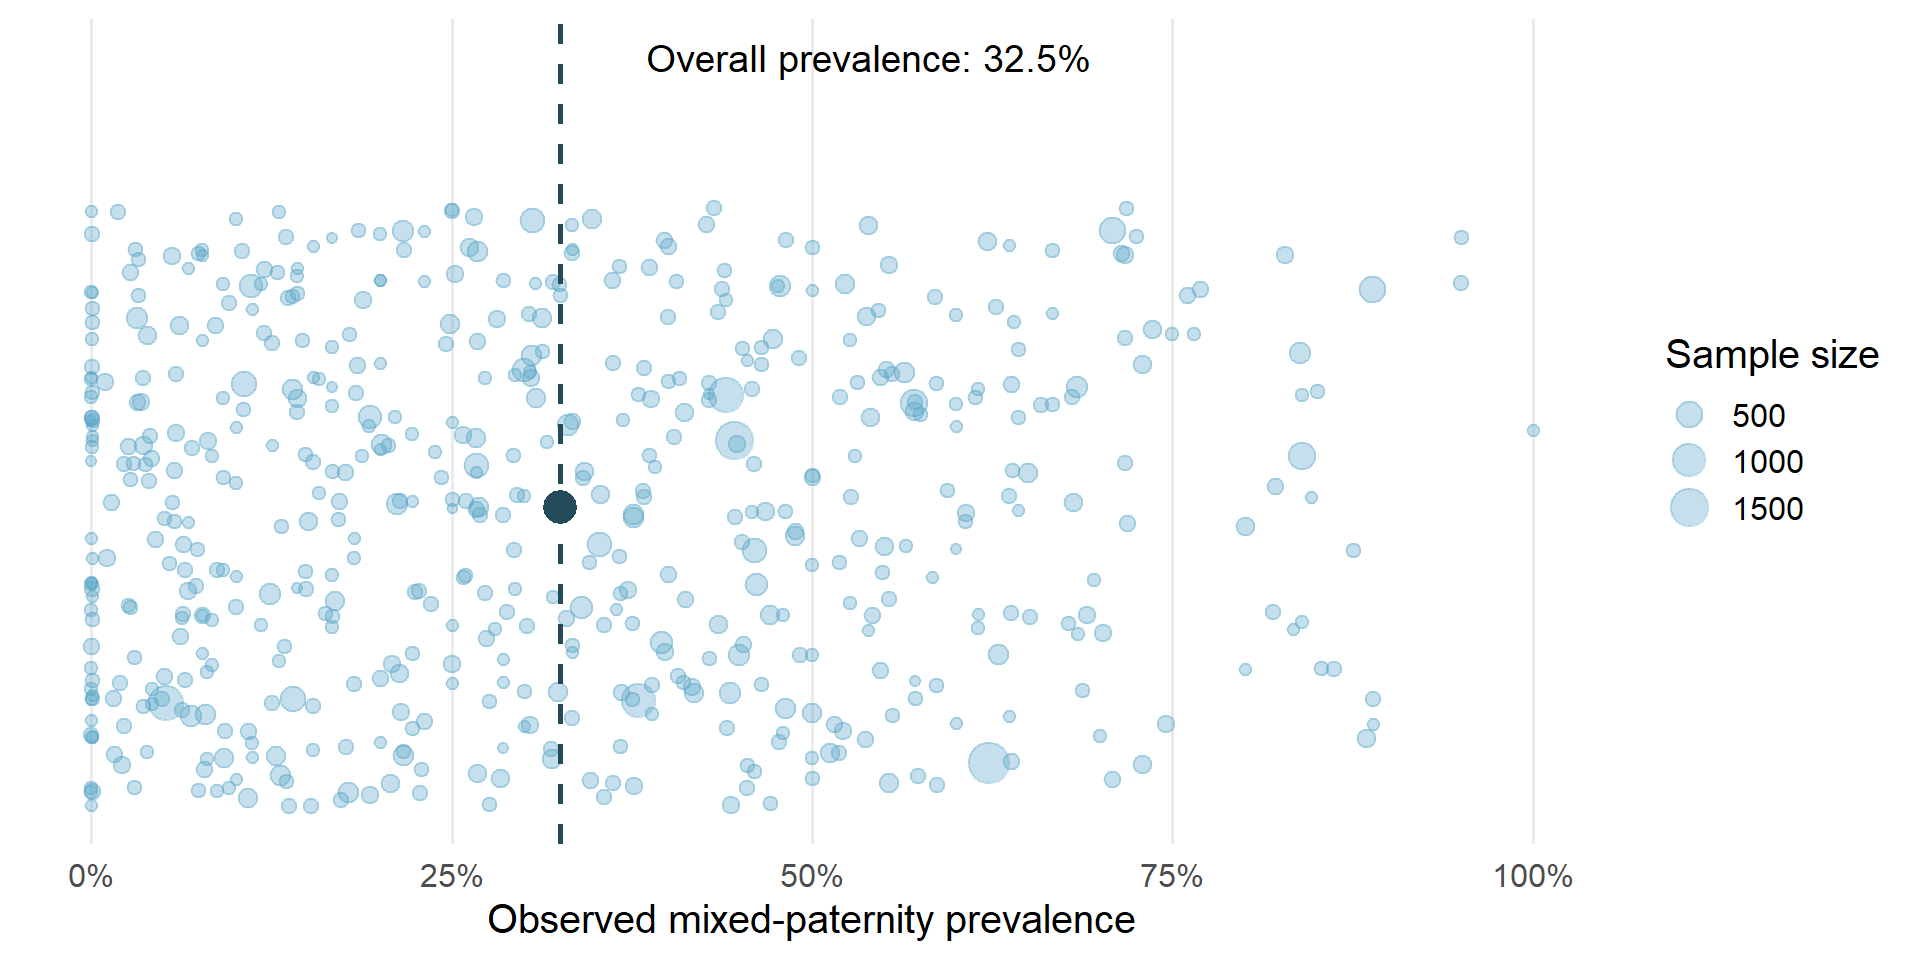
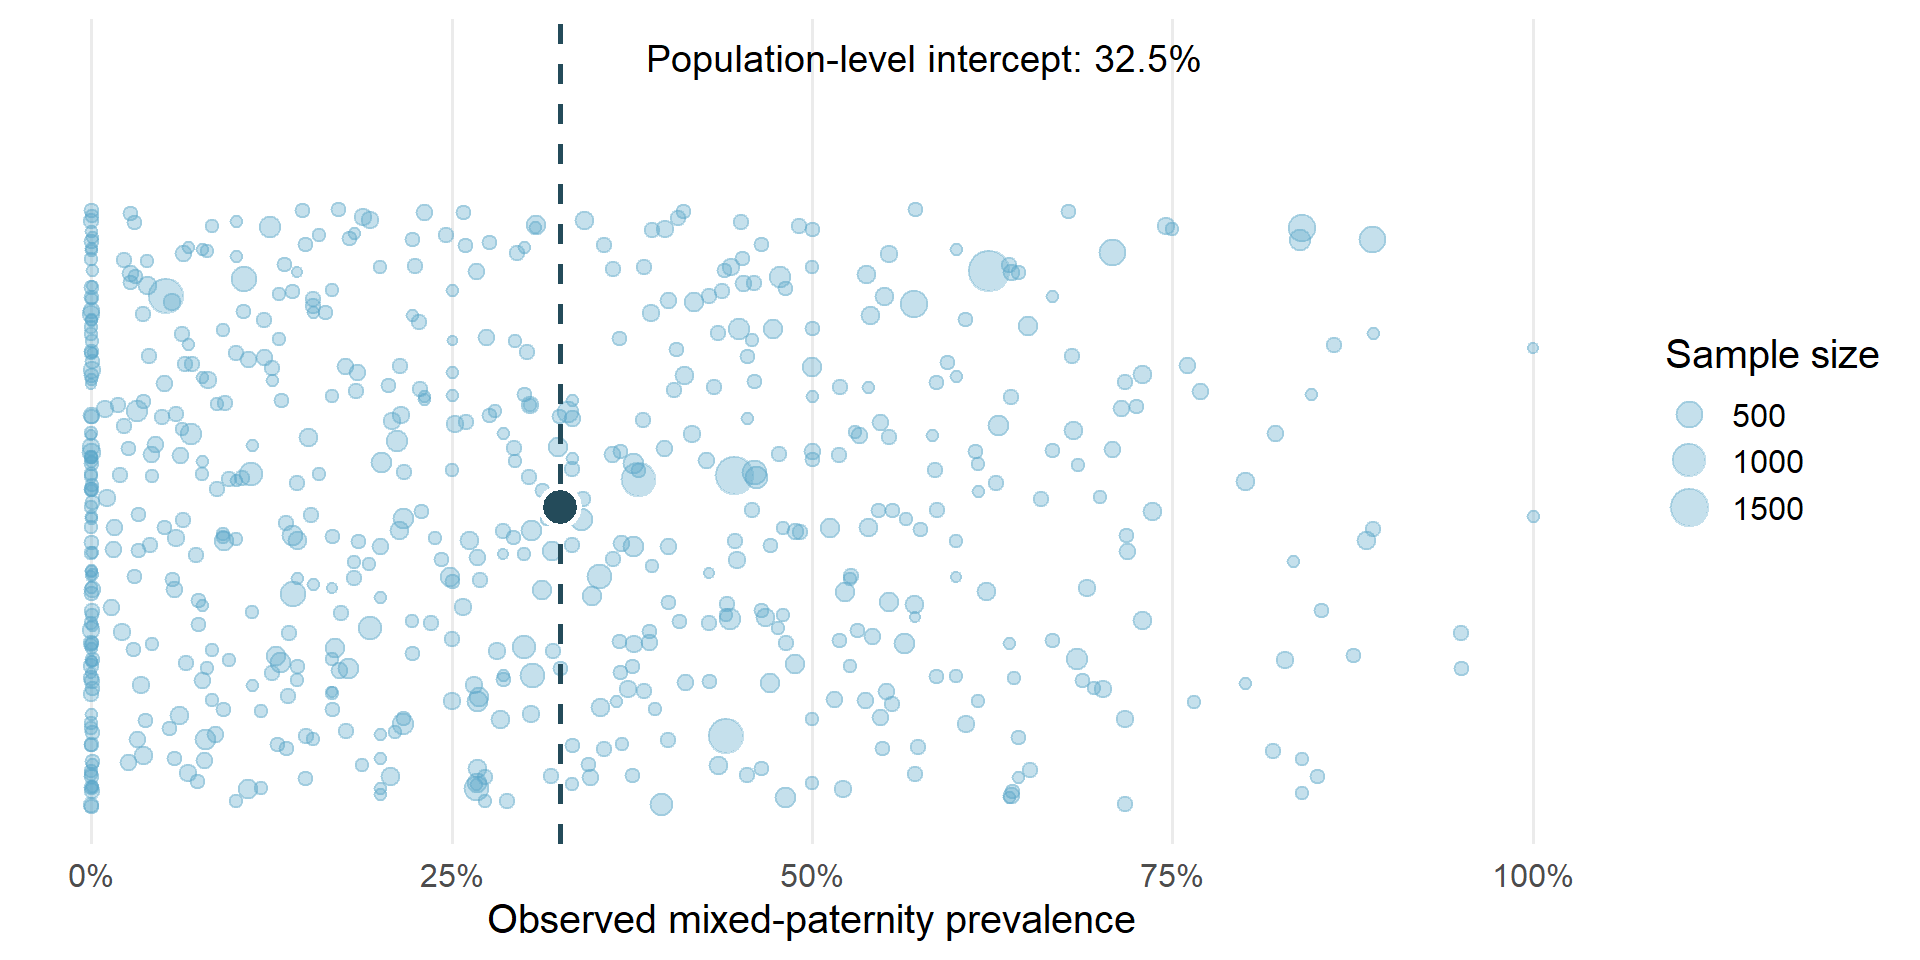
Clarify overall prevalence estimand

diff --git a/docs/03_overall_model.html b/docs/03_overall_model.html
@@ -350,7 +350,7 @@ window.Quarto = {
 <h2 data-number="4.5" class="anchored" data-anchor-id="overall-mixed-paternity-prevalence"><span class="header-section-number">4.5</span> Overall mixed-paternity prevalence</h2>
 <section id="model" class="level3" data-number="4.5.1">
 <h3 data-number="4.5.1" class="anchored" data-anchor-id="model"><span class="header-section-number">4.5.1</span> Model</h3>
-<p>The intercept-only model estimated the average mixed-paternity prevalence across studies and species while accounting for study-level, non-phylogenetic species-level, and phylogenetically structured species-level variation.</p>
+<p>The intercept-only model estimated the population-level intercept while quantifying study-level, non-phylogenetic species-level, and phylogenetically structured species-level variation. Its inverse-logit transformation is the expected prevalence when all random effects are set to zero; it is not a marginal average across the observed studies or species.</p>
 <div class="cell">
 <details class="code-fold">
 <summary>Code</summary>
@@ -379,13 +379,13 @@ window.Quarto = {
 <details class="code-fold">
 <summary>Code</summary>
 <div class="sourceCode cell-code" id="cb4"><pre class="sourceCode r code-with-copy"><code class="sourceCode r"><span id="cb4-1"><a href="#cb4-1" aria-hidden="true" tabindex="-1"></a>knitr<span class="sc">::</span><span class="fu">include_graphics</span>(</span>
-<span id="cb4-2"><a href="#cb4-2" aria-hidden="true" tabindex="-1"></a>  <span class="st">"Figures/model_diagnostics/overall_prevalence_plot.png"</span></span>
+<span id="cb4-2"><a href="#cb4-2" aria-hidden="true" tabindex="-1"></a>  <span class="st">"Figures/model_diagnostics/overall_prevalence_intercept_plot.png"</span></span>
 <span id="cb4-3"><a href="#cb4-3" aria-hidden="true" tabindex="-1"></a>)</span></code><button title="Copy to Clipboard" class="code-copy-button"><i class="bi"></i></button></pre></div>
 </details>
 <div class="cell-output-display">
 <div>
 <figure class="figure">
-<p><img src="Figures/model_diagnostics/overall_prevalence_plot.png" class="img-fluid figure-img" width="1500"></p>
+<p><img src="Figures/model_diagnostics/overall_prevalence_intercept_plot.png" class="img-fluid figure-img" width="1500"></p>
 </figure>
 </div>
 </div>
@@ -461,7 +461,7 @@ scale reduction factor on split chains (at convergence, Rhat = 1).</code></pre>
 <td style="text-align: right;">1.003</td>
 </tr>
 <tr class="even">
-<td style="text-align: left;">Overall prevalence (%)</td>
+<td style="text-align: left;">Population-level intercept prevalence (%)</td>
 <td style="text-align: right;">32.472</td>
 <td style="text-align: right;">8.119</td>
 <td style="text-align: right;">73.156</td>
@@ -1166,7 +1166,7 @@ window.document.addEventListener("DOMContentLoaded", function (event) {
 <span id="cb12-82"><a href="#cb12-82" aria-hidden="true" tabindex="-1"></a></span>
 <span id="cb12-83"><a href="#cb12-83" aria-hidden="true" tabindex="-1"></a><span class="fu">### Model</span></span>
 <span id="cb12-84"><a href="#cb12-84" aria-hidden="true" tabindex="-1"></a></span>
-<span id="cb12-85"><a href="#cb12-85" aria-hidden="true" tabindex="-1"></a>The intercept-only model estimated the average mixed-paternity prevalence across studies and species while accounting for study-level, non-phylogenetic species-level, and phylogenetically structured species-level variation.</span>
+<span id="cb12-85"><a href="#cb12-85" aria-hidden="true" tabindex="-1"></a>The intercept-only model estimated the population-level intercept while quantifying study-level, non-phylogenetic species-level, and phylogenetically structured species-level variation. Its inverse-logit transformation is the expected prevalence when all random effects are set to zero; it is not a marginal average across the observed studies or species.</span>
 <span id="cb12-86"><a href="#cb12-86" aria-hidden="true" tabindex="-1"></a></span>
 <span id="cb12-89"><a href="#cb12-89" aria-hidden="true" tabindex="-1"></a><span class="in">```{r}</span></span>
 <span id="cb12-90"><a href="#cb12-90" aria-hidden="true" tabindex="-1"></a><span class="co">#| eval: false</span></span>
@@ -1195,7 +1195,7 @@ window.document.addEventListener("DOMContentLoaded", function (event) {
 <span id="cb12-113"><a href="#cb12-113" aria-hidden="true" tabindex="-1"></a></span>
 <span id="cb12-116"><a href="#cb12-116" aria-hidden="true" tabindex="-1"></a><span class="in">```{r}</span></span>
 <span id="cb12-117"><a href="#cb12-117" aria-hidden="true" tabindex="-1"></a>knitr<span class="sc">::</span><span class="fu">include_graphics</span>(</span>
-<span id="cb12-118"><a href="#cb12-118" aria-hidden="true" tabindex="-1"></a>  <span class="st">"Figures/model_diagnostics/overall_prevalence_plot.png"</span></span>
+<span id="cb12-118"><a href="#cb12-118" aria-hidden="true" tabindex="-1"></a>  <span class="st">"Figures/model_diagnostics/overall_prevalence_intercept_plot.png"</span></span>
 <span id="cb12-119"><a href="#cb12-119" aria-hidden="true" tabindex="-1"></a>)</span>
 <span id="cb12-120"><a href="#cb12-120" aria-hidden="true" tabindex="-1"></a><span class="in">```</span></span>
 <span id="cb12-121"><a href="#cb12-121" aria-hidden="true" tabindex="-1"></a></span>
@@ -1221,7 +1221,7 @@ window.document.addEventListener("DOMContentLoaded", function (event) {
 <span id="cb12-145"><a href="#cb12-145" aria-hidden="true" tabindex="-1"></a>model_summary_table <span class="ot">&lt;-</span> tibble<span class="sc">::</span><span class="fu">tibble</span>(</span>
 <span id="cb12-146"><a href="#cb12-146" aria-hidden="true" tabindex="-1"></a>  <span class="at">Parameter =</span> <span class="fu">c</span>(</span>
 <span id="cb12-147"><a href="#cb12-147" aria-hidden="true" tabindex="-1"></a>    <span class="st">"Intercept (logit scale)"</span>,</span>
-<span id="cb12-148"><a href="#cb12-148" aria-hidden="true" tabindex="-1"></a>    <span class="st">"Overall prevalence (%)"</span>,</span>
+<span id="cb12-148"><a href="#cb12-148" aria-hidden="true" tabindex="-1"></a>    <span class="st">"Population-level intercept prevalence (%)"</span>,</span>
 <span id="cb12-149"><a href="#cb12-149" aria-hidden="true" tabindex="-1"></a>    <span class="st">"Study-level SD"</span>,</span>
 <span id="cb12-150"><a href="#cb12-150" aria-hidden="true" tabindex="-1"></a>    <span class="st">"Non-phylogenetic species-level SD"</span>,</span>
 <span id="cb12-151"><a href="#cb12-151" aria-hidden="true" tabindex="-1"></a>    <span class="st">"Phylogenetic species-level SD"</span>,</span>

diff --git a/docs/07_figures.html b/docs/07_figures.html
@@ -882,13 +882,13 @@ pre > code.sourceCode > span > a:first-child::before { text-decoration: underlin
 </section>
 <section id="figure-preparation" class="level2" data-number="8.5">
 <h2 data-number="8.5" class="anchored" data-anchor-id="figure-preparation"><span class="header-section-number">8.5</span> Figure preparation</h2>
-<p>Points represent observed brood-level mixed-paternity prevalence across study populations, scaled by sample size. Dark points and vertical intervals represent posterior predicted prevalence and 95% credible intervals from the fitted beta-binomial phylogenetic model.</p>
+<p>Points represent observed record-level mixed-paternity prevalence and are scaled by the number of genotyped broods. The dashed line and dark point mark the inverse-logit-transformed population-level intercept from the intercept-only model; its credible interval is reported in the model table. This conditional estimate sets study and species random effects to zero.</p>
 <div class="cell">
 <div class="cell-output-display">
 <div class="quarto-figure quarto-figure-center">
 <figure class="figure">
 <p><img src="07_figures_files/figure-html/unnamed-chunk-8-1.png" class="img-fluid figure-img" width="960"></p>
-<figcaption>Observed mixed-paternity prevalence across study populations and the estimated overall prevalence from the intercept-only model.</figcaption>
+<figcaption>Observed mixed-paternity prevalence across study populations and the inverse-logit-transformed population-level intercept from the intercept-only model. The 32.5% estimate is conditional on study and species random effects being set to zero and is not a marginal average across observed studies or species.</figcaption>
 </figure>
 </div>
 </div>
@@ -2767,7 +2767,7 @@ Figure&nbsp;8.15: Posterior mean fixed effects and 95% equal-tailed credible int
 <span id="cb31-580"><a href="#cb31-580" aria-hidden="true" tabindex="-1"></a></span>
 <span id="cb31-581"><a href="#cb31-581" aria-hidden="true" tabindex="-1"></a><span class="fu">## Figure preparation</span></span>
 <span id="cb31-582"><a href="#cb31-582" aria-hidden="true" tabindex="-1"></a></span>
-<span id="cb31-583"><a href="#cb31-583" aria-hidden="true" tabindex="-1"></a>Points represent observed brood-level mixed-paternity prevalence across study populations, scaled by sample size. Dark points and vertical intervals represent posterior predicted prevalence and 95% credible intervals from the fitted beta-binomial phylogenetic model.</span>
+<span id="cb31-583"><a href="#cb31-583" aria-hidden="true" tabindex="-1"></a>Points represent observed record-level mixed-paternity prevalence and are scaled by the number of genotyped broods. The dashed line and dark point mark the inverse-logit-transformed population-level intercept from the intercept-only model; its credible interval is reported in the model table. This conditional estimate sets study and species random effects to zero.</span>
 <span id="cb31-584"><a href="#cb31-584" aria-hidden="true" tabindex="-1"></a></span>
 <span id="cb31-587"><a href="#cb31-587" aria-hidden="true" tabindex="-1"></a><span class="in">```{r}</span></span>
 <span id="cb31-588"><a href="#cb31-588" aria-hidden="true" tabindex="-1"></a><span class="co">#| echo: false</span></span>
@@ -2775,7 +2775,7 @@ Figure&nbsp;8.15: Posterior mean fixed effects and 95% equal-tailed credible int
 <span id="cb31-590"><a href="#cb31-590" aria-hidden="true" tabindex="-1"></a><span class="co">#| warning: false</span></span>
 <span id="cb31-591"><a href="#cb31-591" aria-hidden="true" tabindex="-1"></a><span class="co">#| fig-width: 10</span></span>
 <span id="cb31-592"><a href="#cb31-592" aria-hidden="true" tabindex="-1"></a><span class="co">#| fig-height: 5</span></span>
-<span id="cb31-593"><a href="#cb31-593" aria-hidden="true" tabindex="-1"></a><span class="co">#| fig-cap: "Observed mixed-paternity prevalence across study populations and the estimated overall prevalence from the intercept-only model."</span></span>
+<span id="cb31-593"><a href="#cb31-593" aria-hidden="true" tabindex="-1"></a><span class="co">#| fig-cap: "Observed mixed-paternity prevalence across study populations and the inverse-logit-transformed population-level intercept from the intercept-only model. The 32.5% estimate is conditional on study and species random effects being set to zero and is not a marginal average across observed studies or species."</span></span>
 <span id="cb31-594"><a href="#cb31-594" aria-hidden="true" tabindex="-1"></a></span>
 <span id="cb31-595"><a href="#cb31-595" aria-hidden="true" tabindex="-1"></a>plot_data <span class="ot">&lt;-</span> data_overall_study <span class="sc">%&gt;%</span></span>
 <span id="cb31-596"><a href="#cb31-596" aria-hidden="true" tabindex="-1"></a>  <span class="fu">mutate</span>(</span>
@@ -2813,7 +2813,7 @@ Figure&nbsp;8.15: Posterior mean fixed effects and 95% equal-tailed credible int
 <span id="cb31-628"><a href="#cb31-628" aria-hidden="true" tabindex="-1"></a>    <span class="st">"text"</span>,</span>
 <span id="cb31-629"><a href="#cb31-629" aria-hidden="true" tabindex="-1"></a>    <span class="at">x =</span> overall_est <span class="sc">+</span> <span class="dv">6</span>,</span>
 <span id="cb31-630"><a href="#cb31-630" aria-hidden="true" tabindex="-1"></a>    <span class="at">y =</span> <span class="fl">0.18</span>,</span>
-<span id="cb31-631"><a href="#cb31-631" aria-hidden="true" tabindex="-1"></a>    <span class="at">label =</span> <span class="fu">paste0</span>(<span class="st">"Overall prevalence: "</span>, <span class="fu">round</span>(overall_est, <span class="dv">1</span>), <span class="st">"%"</span>),</span>
+<span id="cb31-631"><a href="#cb31-631" aria-hidden="true" tabindex="-1"></a>    <span class="at">label =</span> <span class="fu">paste0</span>(<span class="st">"Population-level intercept: "</span>, <span class="fu">round</span>(overall_est, <span class="dv">1</span>), <span class="st">"%"</span>),</span>
 <span id="cb31-632"><a href="#cb31-632" aria-hidden="true" tabindex="-1"></a>    <span class="at">hjust =</span> <span class="dv">0</span>,</span>
 <span id="cb31-633"><a href="#cb31-633" aria-hidden="true" tabindex="-1"></a>    <span class="at">size =</span> <span class="dv">5</span></span>
 <span id="cb31-634"><a href="#cb31-634" aria-hidden="true" tabindex="-1"></a>  ) <span class="sc">+</span></span>
